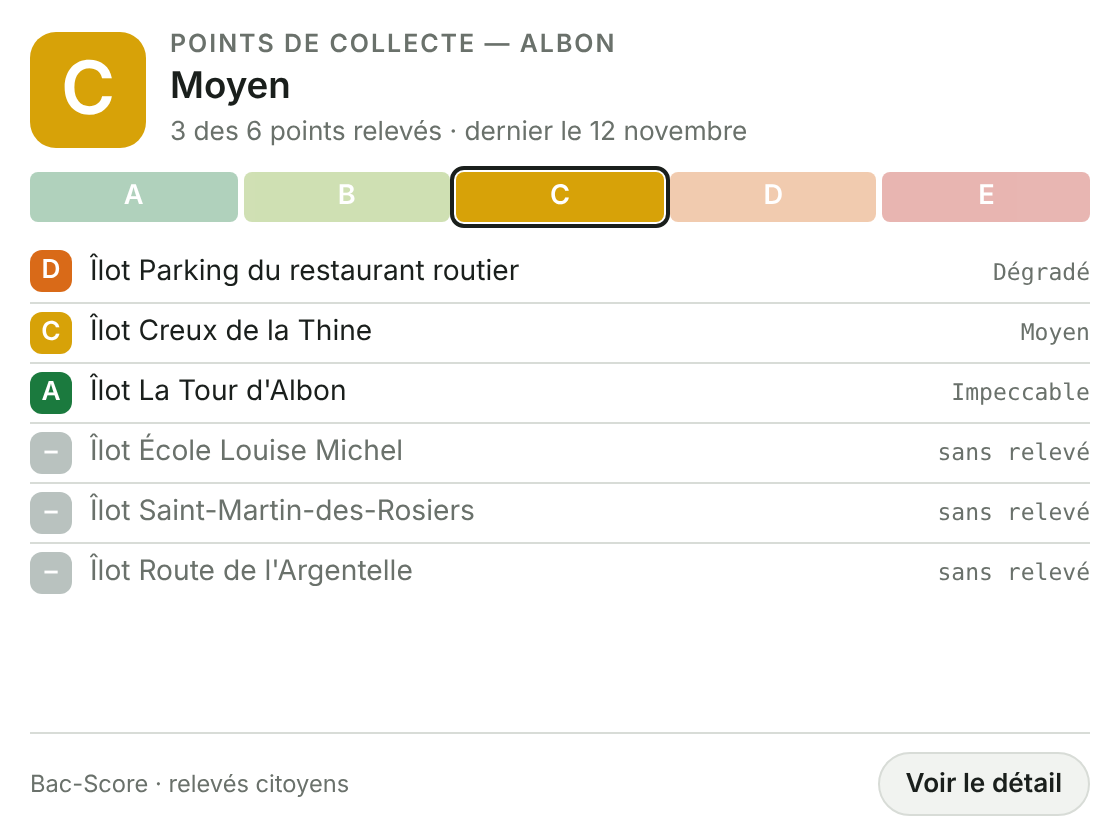
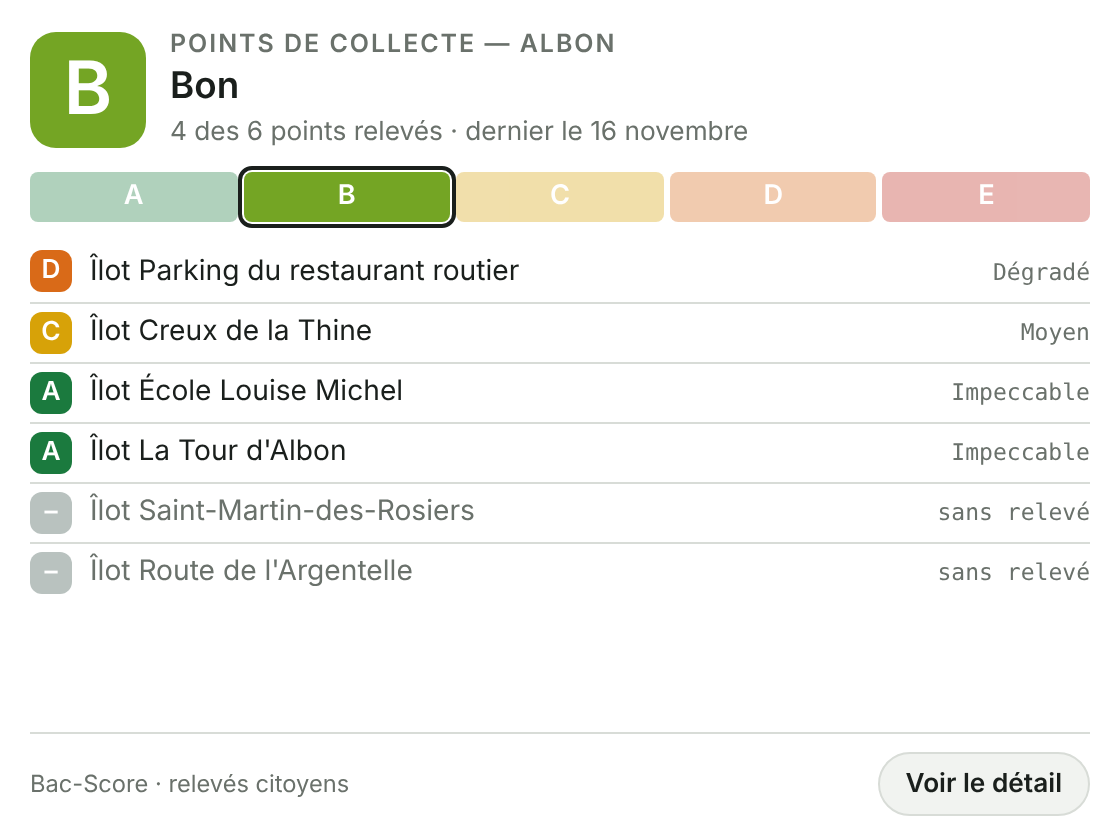
Releves du 16 novembre : ALB-01 et ALB-05 complets

diff --git a/meteo/index.html b/meteo/index.html
@@ -227,9 +227,10 @@ details[open] summary{margin-bottom:8px}
 
 <script>
 const REF = [
- ["ALB-01","Îlot École Louise Michel",45.242644,4.851511,"verre",0],
- ["ALB-01","Îlot École Louise Michel",45.242644,4.851511,"ordures_menageres",0],
- ["ALB-01","Îlot École Louise Michel",45.242644,4.851511,"emballages",0],
+ ["ALB-01","Îlot École Louise Michel",45.242644,4.851511,"verre",1],
+ ["ALB-01","Îlot École Louise Michel",45.242644,4.851511,"ordures_menageres",4],
+ ["ALB-01","Îlot École Louise Michel",45.242644,4.851511,"emballages",1],
+ ["ALB-01","Îlot École Louise Michel",45.242644,4.851511,"papier",1],
  ["ALB-02","Îlot Saint-Martin-des-Rosiers",45.237630,4.871429,"verre",0],
  ["ALB-02","Îlot Saint-Martin-des-Rosiers",45.237630,4.871429,"ordures_menageres",0],
  ["ALB-02","Îlot Saint-Martin-des-Rosiers",45.237630,4.871429,"emballages",0],
@@ -239,9 +240,9 @@ const REF = [
  ["ALB-04","Îlot Parking du restaurant routier",45.241359,4.820709,"verre",0],
  ["ALB-04","Îlot Parking du restaurant routier",45.241359,4.820709,"ordures_menageres",0],
  ["ALB-04","Îlot Parking du restaurant routier",45.241359,4.820709,"emballages",0],
- ["ALB-05","Îlot La Tour d'Albon",45.249859,4.865426,"verre",0],
- ["ALB-05","Îlot La Tour d'Albon",45.249859,4.865426,"ordures_menageres",0],
- ["ALB-05","Îlot La Tour d'Albon",45.249859,4.865426,"emballages",0],
+ ["ALB-05","Îlot La Tour d'Albon",45.249859,4.865426,"verre",1],
+ ["ALB-05","Îlot La Tour d'Albon",45.249859,4.865426,"ordures_menageres",1],
+ ["ALB-05","Îlot La Tour d'Albon",45.249859,4.865426,"emballages",1],
  ["ALB-06","Îlot Creux de la Thine",45.261132,4.825427,"verre",2],
  ["ALB-06","Îlot Creux de la Thine",45.261132,4.825427,"ordures_menageres",0],
  ["ALB-06","Îlot Creux de la Thine",45.261132,4.825427,"emballages",0]
@@ -268,7 +269,16 @@ const OBS = [
  ["5e0d5759","2026-11-11T08:19:59.000Z","ALB-04","ordures_menageres","18LKlStVsQib0xLTcTpVVl5od1Pb6WHjO",0,3,0,0,0,1,5,"inadequation",0.70,"Trois conteneurs d'ordures ménagères, rien posé dessus ; cinq sacs déposés au sol à leur pied."],
  ["5e0d5759","2026-11-11T08:19:59.000Z","ALB-04","verre","18LKlStVsQib0xLTcTpVVl5od1Pb6WHjO",0,1,0,0,0,0,0,"",0.70,"Une colonne à verre visible dans le cadre, rien posé dessus ni au sol."],
  ["5e0d5759","2026-11-11T08:19:59.000Z","ALB-04","emballages","18LKlStVsQib0xLTcTpVVl5od1Pb6WHjO",0,0,0,0,0,0,0,"",0.50,"Aucune colonne à emballages identifiable dans le cadre."],
- ["5e0d5759","2026-11-11T08:19:59.000Z","ALB-04","papier","18LKlStVsQib0xLTcTpVVl5od1Pb6WHjO",0,0,0,0,0,0,0,"",0.50,"Aucune colonne à papier identifiable dans le cadre."]
+ ["5e0d5759","2026-11-11T08:19:59.000Z","ALB-04","papier","18LKlStVsQib0xLTcTpVVl5od1Pb6WHjO",0,0,0,0,0,0,0,"",0.50,"Aucune colonne à papier identifiable dans le cadre."],
+ ["6788e7d8","2026-11-16T07:51:32.493Z","ALB-01","verre","1ja2fsm8yy3i_o-R4WQ5SnzEcQEg-Or2n",0,1,0,0,0,0,0,"",0.85,"Une colonne verte à verre au fond à droite, ouvertures rondes visibles, rien posé dessus ni à son pied."],
+ ["6788e7d8","2026-11-16T07:51:32.493Z","ALB-01","emballages","1ja2fsm8yy3i_o-R4WQ5SnzEcQEg-Or2n",0,1,0,0,0,0,0,"",0.88,"Une colonne à ouvertures jaunes au centre, ouvertures dégagées, rien au sol."],
+ ["6788e7d8","2026-11-16T07:51:32.493Z","ALB-01","papier","1ja2fsm8yy3i_o-R4WQ5SnzEcQEg-Or2n",0,1,0,0,0,0,0,"",0.40,"Colonne bleue étiquetée « papier cartonnette » à gauche, rien au sol."],
+ ["f3a2e4bf","2026-11-16T07:51:20.124Z","ALB-01","ordures_menageres","1OTOxhS4M5hXf4B1wQ4UTCnEQ6yhiIpE_",0,4,0,0,0,0,0,"",0.50,"Quatre colonnes semi-enterrées à dôme gris foncé, aucune saturation visible, rien au sol."],
+ ["7ca26150","2026-11-16T07:55:21.208Z","ALB-05","emballages","1gkxSOC2U36S7EL6ilyK8ST_F3msNSGT7",0,1,0,0,0,0,0,"",0.75,"Une colonne emballages (plaquette jaune), rien posé dessus ni au sol."],
+ ["ff8d11a2","2026-11-16T07:55:05.818Z","ALB-05","verre","1Xduic0y1xhvbanV8-VOB_EpF6oOLB6P0",0,1,0,0,0,0,0,"",0.85,"Colonne grise à opercule vert avec deux ouvertures rondes, rien au sol."],
+ ["ff8d11a2","2026-11-16T07:55:05.818Z","ALB-05","ordures_menageres","1Xduic0y1xhvbanV8-VOB_EpF6oOLB6P0",0,1,0,0,0,0,0,"",0.65,"Petit conteneur gris semi-enterré à tambour métallique, rien au sol."],
+ ["ff8d11a2","2026-11-16T07:55:05.818Z","ALB-05","emballages","1Xduic0y1xhvbanV8-VOB_EpF6oOLB6P0",0,1,0,0,0,0,0,"",0.80,"Colonne grise à opercule jaune et blanc avec consignes de tri, rien au sol."],
+ ["ff8d11a2","2026-11-16T07:55:05.818Z","ALB-05","papier","1Xduic0y1xhvbanV8-VOB_EpF6oOLB6P0",0,1,0,0,0,0,0,"",0.40,"Colonne grise à opercule bleu ; le flux papier est absent du référentiel de ce point, lecture à confirmer."]
 ].map(r=>({uuid:r[0],ts:r[1],site:r[2],flux:r[3],photo:r[4],inaccessible:!!r[5],vues:r[6],dessus:r[7],bloquees:r[8],pleines:r[9],depotSol:!!r[10],sacs:r[11],cause:r[12],confiance:r[13],texte:r[14],
   test:r[0].startsWith("test-")||r[0].startsWith("cors-")}));
 
